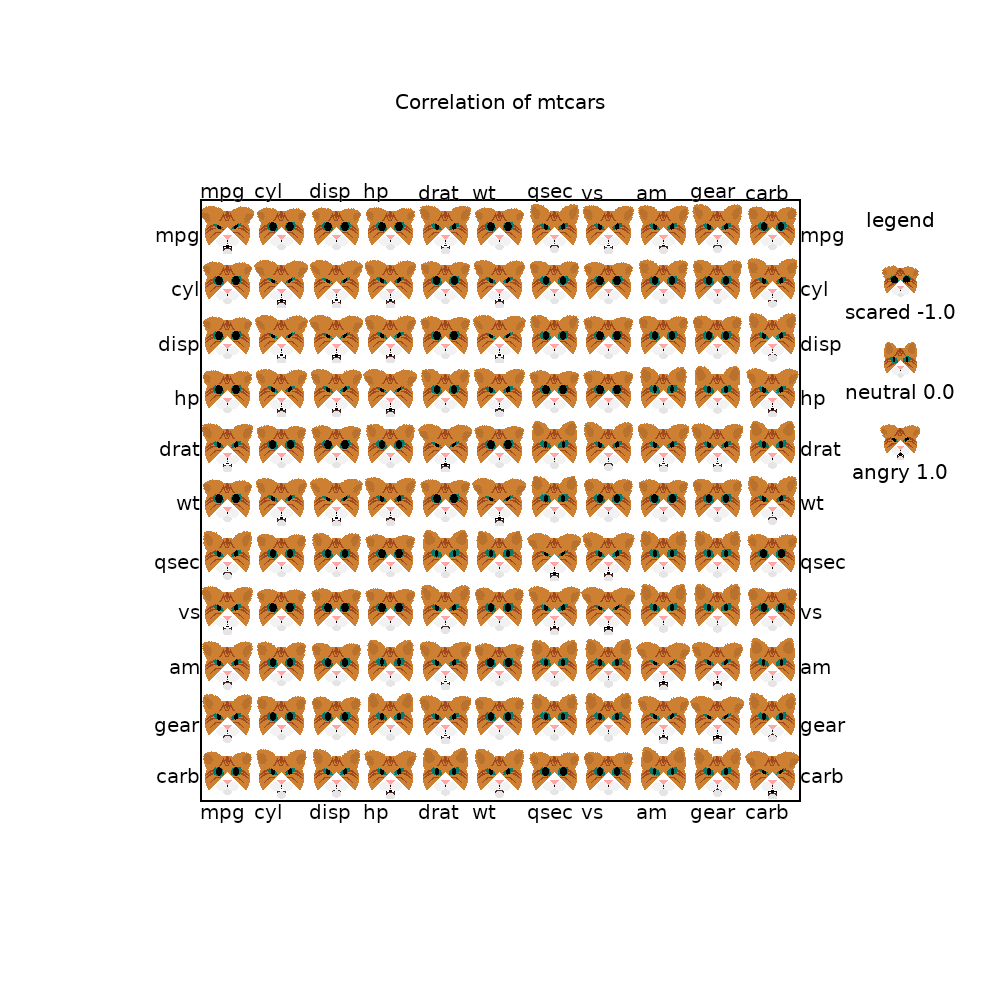
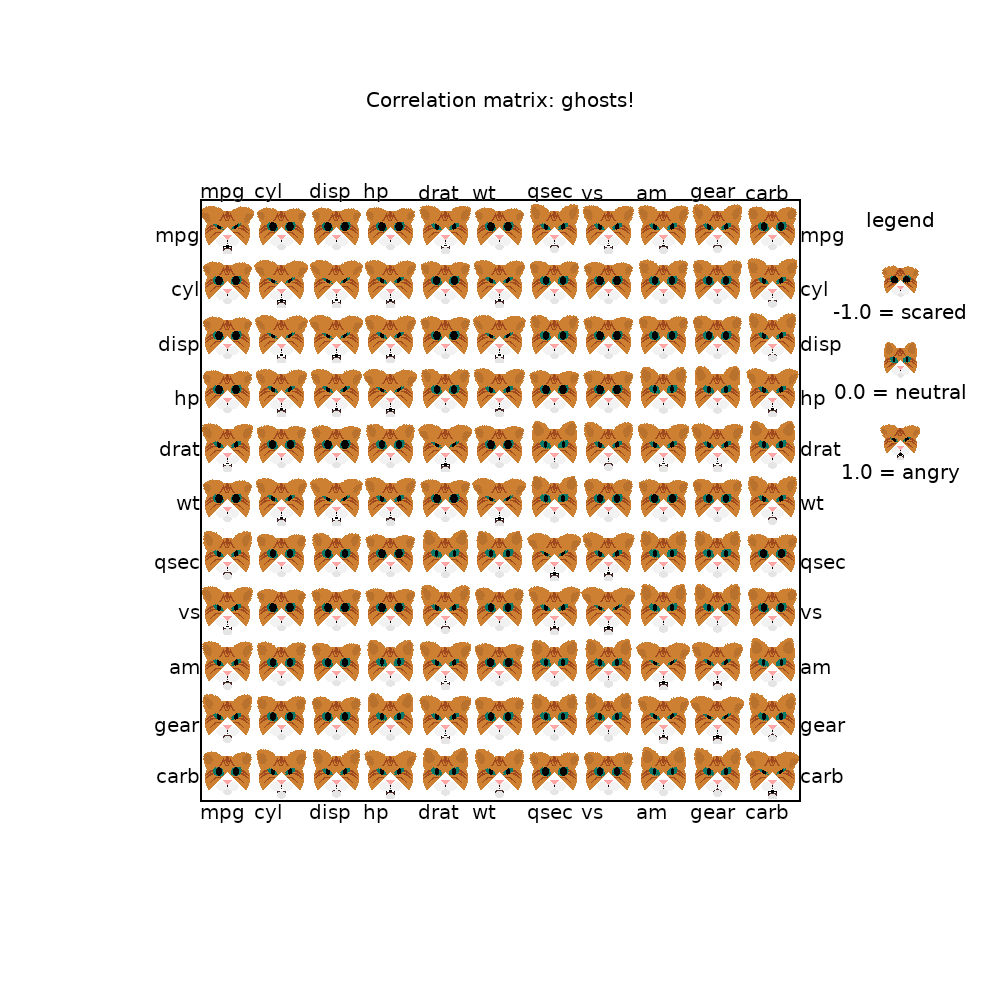
Add halloween graphs

diff --git a/bubblechart.py b/bubblechart.py
@@ -349,9 +349,9 @@ class HeatMap(BubbleChart):
             self.image.paste(marker,
                     (4*self.W//5 + 4*self.W//50, self.H//5 + 3*self.H//50 + n*4*self.H//50),
                     marker)
-            _, _, w, h = draw_obj.textbbox((0, 0), f"{m} {v}", font=font)
+            _, _, w, h = draw_obj.textbbox((0, 0), f"{v} = {m}", font=font)
             draw_obj.text((4*self.W//5 + self.W//10 - w/2, 3*self.H//10 + n*4*self.H//50),
-                          text=f"{m} {v}", fill="black", font=font)
+                          text=f"{v} = {m}", fill="black", font=font)
 
         # Title
         _, _, w, h = draw_obj.textbbox((0, 0), self.title, font=font)
@@ -369,13 +369,13 @@ BubbleChart(
     a = df.mpg.tolist(),
     m = df.cyl.tolist(),
     p = ["orange tabby", "grey tabby", "calico"],
-    x_label = "horsepower",
-    y_label = "displacement",
+    x_label = "chocolate (lbs)",
+    y_label = "visitors",
     a_label = "",
-    m_label = "cylinders",
-    title = "mtcars: horsepower vs. displacement",
-    W = 500,
-    H = 500).image.save("bubblechart.png")
+    m_label = "pumpkins",
+    title = "Trick or treaters",
+    W = 1000,
+    H = 1000).image.save("bubblechart.png")
 
 df = (
     data("mtcars")
@@ -388,6 +388,6 @@ HeatMap(XY=df.values,
         m_lim=[-1, 1],
         moods=["scared", "neutral", "angry"],
         pattern="orange tabby",
-        title="Correlation of mtcars",
+        title="Correlation matrix: ghosts!",
         W=1000,
         H=1000).image.save("heatmap.png")
